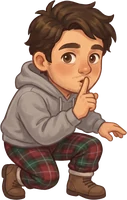
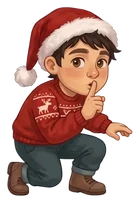
Tower character switching, duel beams from the noses, Mikołaj redrawn in his own clothes in the maze, smaller elf cages
Claude-Session: https://claude.ai/code/session_016HTeTL1HdhdTLdUQNXXCi3

diff --git a/prezentowy-nalot/wioska/index.html b/prezentowy-nalot/wioska/index.html
@@ -498,7 +498,7 @@ function popNote(e){ if(!e.boss) remark('note','win'); e.alive=false; puff(e.x,e
 function defeat(e,dir){ e.state='hit'; e.st=.4; e.kx=dir*300; e.dir=-dir; puff(e.x,(e.y||0)-80,'#ff8fb3',14); sfx('defeat');
   if(inezHitCool<=0&&!cur){ play(e.k==='gay'?'gay_hit'+(1+(gayLine++%3)):'inez_hit'+(1+(inezLine++%6)),()=>remark(e.k,'win')); inezHitCool=1.2; } else remark(e.k,'win'); }
 // ---------- update ----------
-function swapChar(){ if(P.rope||state!=='play'||lvl>=2) return; const order=['kz','kaka','mik'], n=order[(order.indexOf(WHO)+1)%3], C=CHARS[n], foot=P.y+P.h;
+function swapChar(){ if(P.rope||state!=='play') return; const order=['kz','kaka','mik'], n=order[(order.indexOf(WHO)+1)%3], C=CHARS[n], foot=P.y+P.h;
   const fits=x=>{ const l=Math.floor((x-C.w/2)/T), r=Math.floor((x+C.w/2-1)/T); for(let ty=Math.floor((foot-C.h)/T);ty<=Math.floor((foot-1)/T);ty++) for(let tx=l;tx<=r;tx++) if(solid(tx,ty)) return false; return true; };
   const nx=[0,-10,10,-20,20].map(d=>P.x+d).find(fits); if(nx==null){ toast(C.name+' się tu nie zmieści!','#ffe6a8'); return; } P.x=nx;
   WHO=n; P.h=C.h; P.w=C.w; P.y=foot-C.h; puff(P.x,P.y+P.h/2,'rgba(255,255,255,.9)',14); sfx('pick',.4); toast(C.name+' — '+C.tip,'#d6ffd9'); if(!cur){ const k=({kaka:'ka',mik:'mk'}[n]||'kz')+'_swap'; play(k); kzSay={t:REMTXT[k],ttl:2.4}; } }
@@ -872,8 +872,8 @@ function draw(){ c.setTransform(RES,0,0,RES,0,0); if(shake>0) c.translate((Math.
   const sx=L.goal-cam; if(sx>-500&&sx<VW+200){ drawImg(IMG[L.D.goalImg||'sauna']||IMG.sauna,sx+140,(groundY(L.goal+140)||VH)+8,300,false); }
   ents.forEach(e=>{ if(!e.alive) return; const X=e.x-cam; if(X<-120||X>VW+120) return;
     if(e.k==='lever'){ c.save(); c.translate(X,e.y); c.fillStyle='#5a3a22'; c.fillRect(-14,-10,28,10); c.rotate(e.on?.7:-.7); c.fillStyle='#c0392b'; c.fillRect(-3,-46,6,40); c.fillStyle='#ffd23f'; c.beginPath(); c.arc(0,-48,8,0,6.29); c.fill(); c.restore(); if(!e.on&&Math.sin(t0*4)>0){ c.save(); c.font='800 20px "Baloo 2",sans-serif'; c.textAlign='center'; c.fillStyle='#ffe27a'; c.fillText('⬇',X,e.y-70); c.restore(); } }
-    if(e.k==='cage'){ if(!e.freed){ drawImg(IMG.cage,X,e.y+4,150,false); if(Math.sin(t0*3+e.x)>0){ c.save(); c.font='800 18px "Baloo 2",sans-serif'; c.textAlign='center'; c.lineWidth=4; c.strokeStyle='rgba(0,0,0,.6)'; c.fillStyle='#ffe27a'; c.strokeText('Pomocy!',X,e.y-160); c.fillText('Pomocy!',X,e.y-160); c.restore(); } }
-      else { const u=e.ft, hop=Math.abs(Math.sin(u*7))*34*Math.max(0,1-u/3); c.save(); c.globalAlpha=Math.max(0,Math.min(1,(3-u)*1.5)); drawImg(IMG.elf_happy,X+u*110,e.y-hop,132,false); c.restore(); } return; }
+    if(e.k==='cage'){ if(!e.freed){ drawImg(IMG.cage,X,e.y+4,104,false); if(Math.sin(t0*3+e.x)>0){ c.save(); c.font='800 18px "Baloo 2",sans-serif'; c.textAlign='center'; c.lineWidth=4; c.strokeStyle='rgba(0,0,0,.6)'; c.fillStyle='#ffe27a'; c.strokeText('Pomocy!',X,e.y-114); c.fillText('Pomocy!',X,e.y-114); c.restore(); } }
+      else { const u=e.ft, hop=Math.abs(Math.sin(u*7))*34*Math.max(0,1-u/3); c.save(); c.globalAlpha=Math.max(0,Math.min(1,(3-u)*1.5)); drawImg(IMG.elf_happy,X+u*110,e.y-hop,84,false); c.restore(); } return; }
     if(e.k==='vac'){ const br=e.state==='broken', bob=br?0:Math.abs(Math.sin(e.t*14))*2; c.save(); c.translate(X,e.y+2-bob); if(br){ c.rotate(Math.sin(e.rot)*.25); c.globalAlpha=Math.min(1,e.st*2); }
       if(IMG.enemy_vac.complete&&IMG.enemy_vac.naturalWidth) drawImg(IMG.enemy_vac,0,0,112,e.dir>0); else { c.fillStyle='#c9ccd6'; c.beginPath(); c.roundRect(-34,-40,68,36,14); c.fill(); }
       c.restore(); if(br&&Math.random()<.5) parts.push({x:e.x+(Math.random()-.5)*40,y:e.y-40,vx:(Math.random()-.5)*160,vy:-180,t:.4,col:'#ffd23f',r:3}); }
@@ -932,7 +932,7 @@ function draw(){ c.setTransform(RES,0,0,RES,0,0); if(shake>0) c.translate((Math.
   // HUD
   c.font='700 30px "Baloo 2",sans-serif'; c.textBaseline='middle';
   for(let i=0;i<Math.max(3,hearts);i++){ c.globalAlpha=i<hearts?1:.25; c.fillText('❤',24+i*38,74); } c.globalAlpha=1;
-  if(lvl<2){ [['kz','kaczor_face'],['kaka','kaka_face'],['mik','mik_face']].forEach(([w,f],i)=>{ const x=40+i*52, y=176, on=WHO===w, r=on?24:18, im=IMG[f]; c.save(); c.globalAlpha=on?1:.6; c.beginPath(); c.arc(x,y,r,0,Math.PI*2); c.fillStyle='#f1dfc0'; c.fill(); c.clip(); if(im&&im.complete&&im.naturalWidth) c.drawImage(im,x-r,y-r,r*2,r*2); c.restore();
+  if(true){ [['kz','kaczor_face'],['kaka','kaka_face'],['mik','mik_face']].forEach(([w,f],i)=>{ const x=40+i*52, y=176, on=WHO===w, r=on?24:18, im=IMG[f]; c.save(); c.globalAlpha=on?1:.6; c.beginPath(); c.arc(x,y,r,0,Math.PI*2); c.fillStyle='#f1dfc0'; c.fill(); c.clip(); if(im&&im.complete&&im.naturalWidth) c.drawImage(im,x-r,y-r,r*2,r*2); c.restore();
       c.lineWidth=on?4:2; c.strokeStyle=on?'#ffd23f':'rgba(255,255,255,.6)'; c.beginPath(); c.arc(x,y,r,0,Math.PI*2); c.stroke(); if(w==='kaka'&&LISTCD>0){ c.strokeStyle='#ff8fb3'; c.lineWidth=4; c.beginPath(); c.arc(x,y,r+5,-Math.PI/2,-Math.PI/2+Math.PI*2*(1-LISTCD/12)); c.stroke(); } });
     c.save(); c.font='800 15px "Baloo 2",sans-serif'; c.fillStyle='#fff'; c.strokeStyle='rgba(0,0,0,.6)'; c.lineWidth=3; c.textAlign='left'; const tt=TOUCH?'⇄ zmiana postaci':'Tab ⇄ zmiana postaci'; c.strokeText(tt,18,212); c.fillText(tt,18,212); c.restore();
     if(SLOW>0){ c.fillStyle=`rgba(255,180,220,${.12+.05*Math.sin(t0*6)})`; c.fillRect(0,0,VW,VH); } }
@@ -1056,7 +1056,7 @@ let last=performance.now();
 const WARP=+(qs.get('warp')||1);
 let frEma=16.7, frT=0;
 // one line along the very bottom with the keys, always there while playing (replaces the old corner box)
-function drawControls(){ c.setTransform(RES,0,0,RES,0,0); const swap=lvl<2, t=TOUCH?'◀ ▶ bieg · ⤒ skok (przytrzymaj: paralotnia) · 👊 cios · ❄ śnieżka'+(swap?' · ⇄ zmiana postaci':''):
+function drawControls(){ c.setTransform(RES,0,0,RES,0,0); const swap=true, t=TOUCH?'◀ ▶ bieg · ⤒ skok (przytrzymaj: paralotnia) · 👊 cios · ❄ śnieżka'+(swap?' · ⇄ zmiana postaci':''):
   '← → / A D — bieg · Spacja / ↑ / W — skok'+(WHO==='kaka'?' (drugi skok w powietrzu)':WHO==='mik'?'':' (przytrzymaj: paralotnia)')+(WHO==='kaka'?' · X / J — lista (spowolnienie)':WHO==='mik'?'':' · X / J — cios')+' · C / K — śnieżka'+(swap?' · Tab / Q — zmiana postaci':'')+' · Esc — pauza · M — dźwięk';
   c.fillStyle='rgba(10,14,30,.62)'; c.fillRect(0,VH-24,VW,24); c.font='600 15px "Baloo 2",sans-serif'; c.textAlign='center'; c.textBaseline='middle'; c.fillStyle='rgba(255,246,220,.92)'; c.fillText(t,VW/2,VH-11.5); c.textBaseline='alphabetic'; }
 // Kaka's portrait on the story card: she blinks, and while her narration plays her mouth follows Rhubarb cues

diff --git a/prezentowy-nalot/index.html b/prezentowy-nalot/index.html
@@ -373,8 +373,11 @@ function updateDuel(b,dt){ b.dt+=dt; b.x+=(990-b.x)*Math.min(1,dt*2); b.y+=(230-
   b.duel-=dt*(.17+.06*Math.sin(b.dt*2.1)+Math.min(.08,b.dt*.004)); if(Math.random()<.4) parts.push({x:duelX(b),y:duelY(b),vx:(Math.random()-.5)*300,vy:(Math.random()-.5)*300,t:.3,r:3+Math.random()*4,col:Math.random()<.5?'#ff4040':'#ff7ad0'});
   if(b.duel<=0){ b.duel=.45; P.inv=0; hurt(); shake=.5; }
   if(b.duel>=1){ b.duelDone=1; b.mode='float'; shake=.8; burst(b.x-120,b.y-30,'#ff4040',40); damageBoss(99); } }
-const duelX=b=>{ const ax=P.x+150, bx=b.x-170; return ax+(bx-ax)*Math.max(0,Math.min(1,b.duel)); }, duelY=b=>{ const ay=P.y-10, by=b.y-50; return ay+(by-ay)*Math.max(0,Math.min(1,b.duel)); };
-function drawDuel(b){ if(b.mode!=='duel'||b.dt<1.2) return; const ax=P.x+150, ay=P.y-10, bx=b.x-170, by=b.y-50, mx=duelX(b), my=duelY(b), w=10+4*Math.sin(t0*30);
+// the beams start exactly at the noses: Rudolf's red nose on the sleigh sprite and the pink reindeer's nose on the boss sprite (rotated with them)
+const rot=(x,y,dx,dy,a)=>[x+dx*Math.cos(a||0)-dy*Math.sin(a||0), y+dx*Math.sin(a||0)+dy*Math.cos(a||0)];
+const noseR=()=>rot(P.x,P.y,152,-57,P.tilt), noseB=b=>rot(b.x,b.y,-105,-83,b.rot);
+const duelX=b=>{ const ax=noseR()[0], bx=noseB(b)[0]; return ax+(bx-ax)*Math.max(0,Math.min(1,b.duel)); }, duelY=b=>{ const ay=noseR()[1], by=noseB(b)[1]; return ay+(by-ay)*Math.max(0,Math.min(1,b.duel)); };
+function drawDuel(b){ if(b.mode!=='duel'||b.dt<1.2) return; const [ax,ay]=noseR(), [bx,by]=noseB(b), mx=duelX(b), my=duelY(b), w=10+4*Math.sin(t0*30);
   c.save(); c.globalCompositeOperation='lighter'; c.lineCap='round';
   [[ax,ay,'255,60,60'],[bx,by,'255,110,210']].forEach(([x,y,col])=>{ c.strokeStyle=`rgba(${col},.35)`; c.lineWidth=w*3; c.beginPath(); c.moveTo(x,y); c.lineTo(mx,my); c.stroke(); c.strokeStyle=`rgba(${col},.95)`; c.lineWidth=w; c.beginPath(); c.moveTo(x,y); c.lineTo(mx,my); c.stroke(); c.strokeStyle='rgba(255,255,255,.9)'; c.lineWidth=w*.35; c.beginPath(); c.moveTo(x,y); c.lineTo(mx,my); c.stroke(); });
   const g=c.createRadialGradient(mx,my,2,mx,my,70); g.addColorStop(0,'rgba(255,255,255,1)'); g.addColorStop(1,'rgba(255,150,200,0)'); c.fillStyle=g; c.beginPath(); c.arc(mx,my,70+Math.sin(t0*40)*8,0,6.29); c.fill(); c.restore();

diff --git a/prezentowy-nalot/magazyn/index.html b/prezentowy-nalot/magazyn/index.html
@@ -69,8 +69,8 @@ $('mute').onclick=()=>setMute(!muted);
 // ---------- the map: # shelves, B cardboard box (hide), S start, K key, E exit gate ----------
 const MAP=[
 '##############################',
-'#S....#.........#......B.....#',
-'#.....#..B......#............#',
+'#.....#.........#......B.....#',
+'#.S...#..B......#............#',
 '#..####.....#####..####..###.#',
 '#.....#.....#.......#......#.#',
 '#.B...#.....#...B...#..K...#.#',

diff --git a/prezentowy-nalot/README.md b/prezentowy-nalot/README.md
@@ -106,6 +106,7 @@ The title screen gets "Różowy Pałac", "Wieża luster" and "Sala tronowa" butt
 - Easier shoot 'em ups: enemies drop a booster twice as often (42%), with cookies favoured when the sleigh is down to two hearts or fewer; a red gift balloon with a booster drifts in every 9–13 s, also during boss fights; items last longer. Losing all hearts in a boss fight offers "Od początku walki z bossem": the level restarts straight at the boss with full hearts, a short star shield and the presents and score from before the fight.
 - Online scoreboard (as in *Kaczor do sauny!*): `rank.js` is shared by every page; each part (4 shoot 'em up levels, the tent, the cottage, the workshop, 3 platformer levels, the warehouse and the bobsled) keeps its best score in `localStorage`, and the total goes to `/api/scores` (`netlify/functions/scores.mjs`, Netlify Blobs store `pn-scores`) with the player's name and a random id. The win cards show the points, the total and the rank; a name box appears there and in the 🏆 Ranking window (also on the title screen) until a name is set.
 - Warehouse sound pass: the elves' speech bubbles are voiced (17 lines, ElevenLabs "Minty The Holiday Elf", quieter with distance), little Mikołaj — the one small enough to sneak between the shelves — whispers six lines (start, key, hiding in a box, alarm, caught, gate open), elves' footsteps are heard nearby, and the throw sound that was missing is in place, plus sounds for the key, the box, the alarm and being caught.
+- Character switching now also works in the tower; the beam duel starts exactly at the noses of Rudolf and the pink reindeer; the maze hero is redrawn as Mikołaj in his own red sweater and Santa hat (Gemini + 16-frame Ludo sneak cycle); elf cages in the platformer are smaller, in scale with the characters.
 - Direct links: `?play=1..4` starts a shoot 'em up level, `?boss=1..4` jumps to its boss (`?deer` still works); platformer `wioska/?level=1..3`, with `&boss` straight to the General of the Elves or Inez in the tower.
 - Performance (Macs): all pages cap drawing at ~60 fps (ProMotion displays no longer render twice as often), the main game starts at 1.5× resolution instead of 2× on Retina and steps down to 1× if frames run slow, and the star shield uses a canvas shadow instead of stacked CSS filters.
 
